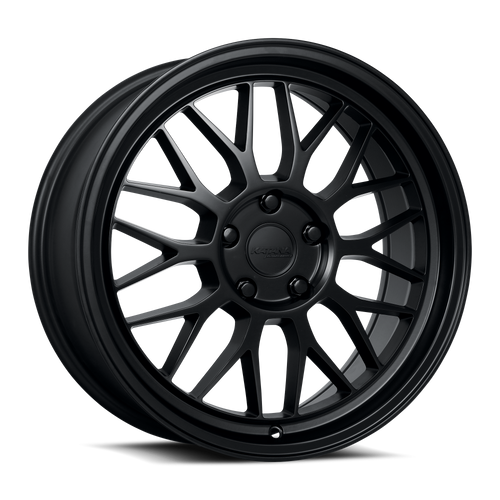
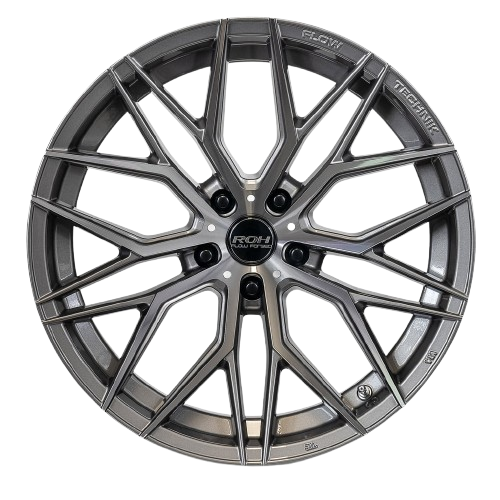
Added a better rim image and upscaled homescreen images

diff --git a/style.css b/style.css
@@ -388,8 +388,8 @@ button:active
 .car-stage[data-model="coupe"] .wheel-front{left: 11%; width: 17%; top: 48%;}
 .car-stage[data-model="coupe"] .wheel-rear{right: 12%; width: 17%; top: 47.8%}
 /*Supercar manually adjusted fit for wheels - used inspect element on loacl host*/
-.car-stage[data-model="supercar"] .wheel-front{left: 21.5%; bottom:31%; width: 14%;}
-.car-stage[data-model="supercar"] .wheel-rear{right: 16%; bottom:32%; width: 14%;}
+.car-stage[data-model="supercar"] .wheel-front{left: 22%; bottom:31%; width: 13%;}
+.car-stage[data-model="supercar"] .wheel-rear{right: 16%; bottom:32%; width: 13%;}
 
 .controls h2{
     font-size: 0.7rem;
@@ -430,7 +430,7 @@ button:active
     font-size: 1.5rem;
     font-weight: 300;
     letter-spacing: 0.05em;
-    color: var(--text);
+    color: var(--gold);
 }
 #purchaseButton
 {